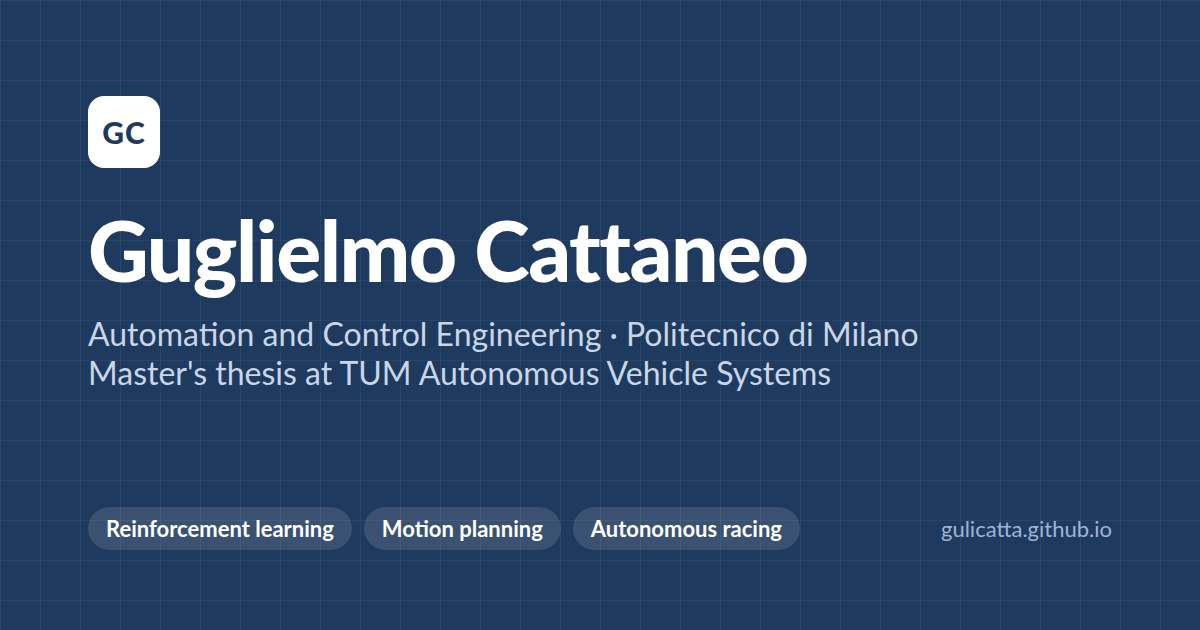
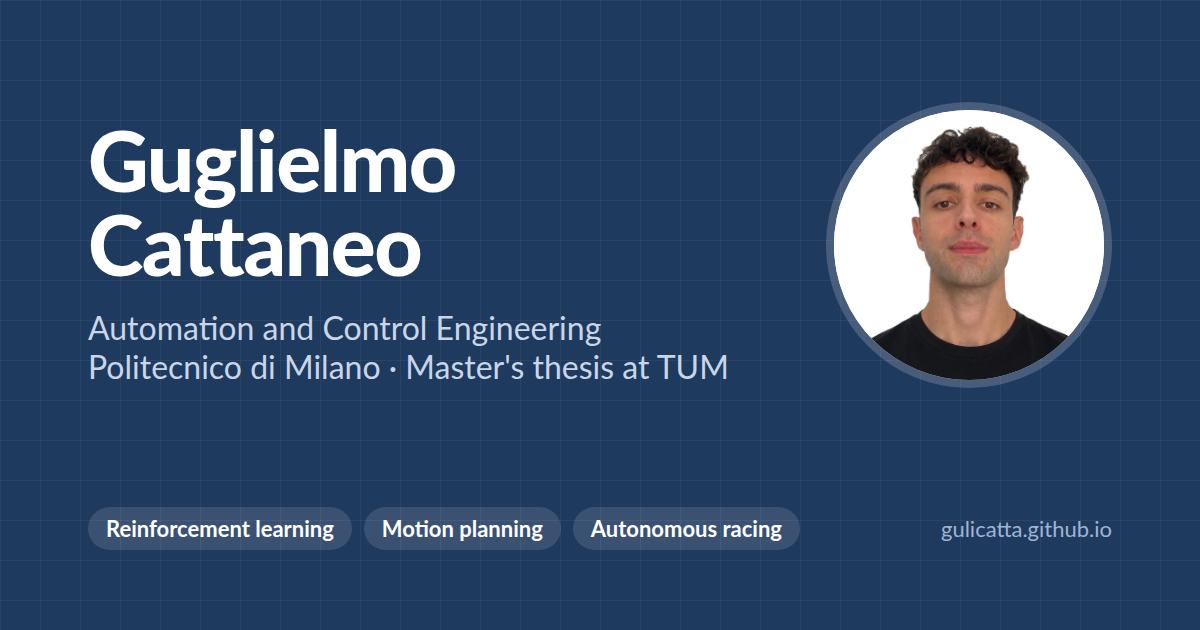
Add portrait on a white background, in the hero and the social preview

Changed region(s): [[0.0617, 0.1508, 0.925, 0.6333]]

diff --git a/index.html b/index.html
@@ -89,6 +89,8 @@
   /* ----------------------------------------------------------- hero */
   .hero { padding: 80px 0 56px; }
   .hero .wrap { display: grid; grid-template-columns: 1.35fr 1fr; gap: 56px; align-items: center; }
+  .portrait { display: block; width: 136px; height: 136px; border-radius: 50%; object-fit: cover; background: #fff;
+              box-shadow: 0 0 0 4px var(--card), 0 0 0 5px var(--hairline), var(--shadow); margin: 0 0 28px; }
   .eyebrow { color: var(--accent); font-weight: 900; font-size: 13px; letter-spacing: 0.16em; text-transform: uppercase; margin: 0 0 14px; }
   .hero h1 { font-weight: 900; font-size: clamp(44px, 6.6vw, 68px); line-height: 1.02; letter-spacing: -0.02em; margin: 0 0 20px; }
   .lead { font-size: 19.5px; color: var(--muted); margin: 0 0 30px; max-width: 34em; }
@@ -181,7 +183,8 @@
   @media (max-width: 680px) {
     body { font-size: 16px; }
     .nav nav a:not(.btn) { display: none; }
-    .hero { padding-top: 48px; }
+    .hero { padding-top: 40px; }
+    .portrait { width: 112px; height: 112px; margin-bottom: 22px; }
     .lead { font-size: 18px; }
     .grid, .skills { grid-template-columns: 1fr; }
     .cv .row { grid-template-columns: 1fr; gap: 2px; }
@@ -224,6 +227,7 @@
 <section class="hero" id="top">
   <div class="wrap">
     <div>
+      <img class="portrait" src="assets/portrait.jpg" alt="Portrait of Guglielmo Cattaneo" width="600" height="600">
       <p class="eyebrow">Automation and Control Engineering</p>
       <h1>Guglielmo Cattaneo</h1>
       <p class="lead">I work on <strong>learning-based planning and control for autonomous vehicles and drones</strong>.
